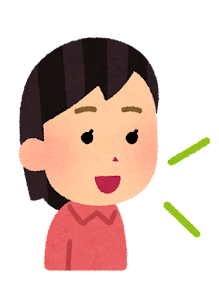
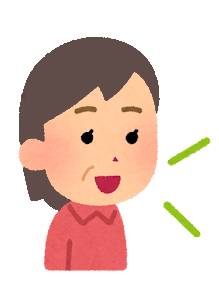
fix : 일기 안내 페이지 TTS, 일러스트, 제목 수정

Changed region(s): [[0.0822, 0.1204, 0.7397, 0.4816], [0.1096, 0.5418, 0.3288, 0.7224], [0.3562, 0.5418, 0.4384, 0.602]]

diff --git a/frontend/src/pages/Student/StudentDiaryMain.jsx b/frontend/src/pages/Student/StudentDiaryMain.jsx
@@ -31,16 +31,22 @@ export default function StudentDiaryMain() {
       await delay(text.length * 300);
 
       // 이름 -> 나중에 성별로 바꾸기
-      let listenText = `질문을 듣고, ${
-        userInfo === undefined ? "" : userInfo.name
-      }님의 이야기를 들려주세요!`;
+      let gender = userInfo.gender === 1 ? "어머님" : "아버님";
+      let listenText = '질문을 듣고,' 
       ttsMaker(listenText, 0);
-      await delay(listenText.length * 300);
+      await delay(3000);
 
-      let resultText = "대화를 모두 마치면, 일기가 완성돼요!";
+      let speakText = `${gender}의 이야기를 들려주세요!`;
+      ttsMaker(speakText, 0);
+      await delay(6000);
+
+      let resultText = "대화를 모두 마치고, 완성된 일기를 읽어요!";
       ttsMaker(resultText, 0);
-      await delay(resultText.length * 300);
-
+      await delay(7000);
+      
+      let nextText = "자, 그럼 이제 이야기를 나눠봐요!";
+      ttsMaker(nextText, 0);
+      await delay(nextText.length *3000);
       navigate("/student-talking");
     }
 
@@ -51,7 +57,7 @@ export default function StudentDiaryMain() {
     <div className={`${styles.main}`}>
       <div className={styles.square}>
         <div className={styles.theme}>
-          <b className={styles.b}>일기쓰기</b>
+          <b className={styles.b}>오늘의 일기쓰기</b>
           {msg && <TTSsentence message={msg} />}
           <div className={styles.imageSituationContainer}>
             <div>
